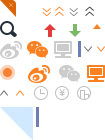
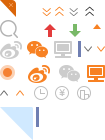
css

Changed region(s): [[0.0, 0.1429, 0.1714, 0.2857]]

diff --git a/css/basis.css b/css/basis.css
@@ -59,7 +59,7 @@ input{outline: none;}
 .time_ul li{ float:left; margin-top:10px; margin-right:10px;}
 .time_ul li input{ border:1px solid #cccccc; border-radius:4px; height:28px; width:100px; text-indent:5px; font-size:12px;}
 .table_seek{ width:300px; float:right; background-color:#fff; border-radius:15px; height:30px; border:1px solid #e6e6e6;}
-.brain_ico_seek{ background-position:0px -21px; width:17px; height:16px; display:block; float:right; margin-right:12px; margin-top:5px; cursor:pointer;}
+.brain_ico_seek{ background-position:0px -20px; width:17px; height:19px; display:block; float:right; margin-right:12px; margin-top:5px; cursor:pointer;}
 .table_seek input{ width:255px; height:28px; margin-left:10px; border:0; text-indent:5px;}
 .bj_fff{ background-color:#fff;}
 .block .table_style > thead > tr > th { text-align:center; font-weight: normal;border-bottom: 1px solid #f0f0f0 !important;;border-left:0px solid #f0f0f0; padding-top:16px; color:#666; padding-bottom:16px;}
@@ -137,21 +137,22 @@ input{outline: none;}
 .no_two_industry .industry_list{width:131px;}
 /*导航*/
 .nav_bj{ background-color:#2d3245; height:68px;    position: relative; }
-.logo{display:block; float:left; width:122px; height:36px; margin-top:16px;}
+.logo{display:block; float:left; width:122px; height:36px; margin-top:18px;}
 .nav_all_bj{width:329px; height:60px;background-image:url(../img/nav_d.jpg);  background-repeat:no-repeat;   position: absolute;}
 .nav_all{ height:68px; position:relative;  }
-.nav_all>ul{ margin-left:40px; float:left; overflow:hidden; margin-top: 2px;}
-.nav_all>ul li{ float:left; font-size:16px; color:#fff; margin-top: 14px; margin-left:60px;}
-.nav_all>ul .nav_on a{ color:#f78123}
-.nav_all ul a{color:#fff;}
+.nav_all>ul{ margin-left:36px; float:left; overflow:hidden; }
+.nav_all>ul li{ float:left;  font-size:16px; color:#fff;  margin-left:12px;}
+.nav_all>ul .nav_on a{ color:#fff; background-color:#2393f7; }
+.nav_all ul a{color:#fff; padding-left:24px; padding-right:24px; padding-top: 24px; display: block;  height:68px;}
 .nav_all ul a:hover{ text-decoration:none}
 .nav_nav ul li{ float:left; height:65px; text-align:center; width:75px; margin-left:60px;}
 .nav_nav{border-bottom:1px solid #d9d9d9; height:66px; background-color:#ffffff;}
 .nav_nav_name{ font-size:16px; color:#333333; margin-top:15px;}
 .nav_nav_name_x{ font-size:12px; color:#999;}
 .nav_two .nav_on{ border-bottom:4px solid #f78123;}
-.nav_all_input{ width:370px; height:32px; background-color:#a6aaae; border-radius:15px; float:left; margin-top:10px; margin-left:100px;}
-.nav_all_input input{ width:330px; margin-left:8px; text-indent:5px; float:left; height:30px; margin-top:1px; background-color:#a6aaae; border:0;border-radius:5px;}
+.nav_all_seek{float:left;     margin-left: 76px;}
+.nav_all_input{ width:275px; height:32px; background-color:#071026; display:none; border-radius:15px; float:left; margin-top:18px; margin-left:70px;}
+.nav_all_input input{ width:238px; margin-left:8px; text-indent:5px; float:left; height:30px;    color: #fff; font-size: 12px; background-color:#071026; border:0;border-radius:5px;}
 .nav_all_input .brain_ico_seek{    margin-top: 7px;}
 .nav_all_name{ float:right; color:#fff; font-size:12px; margin-top:18px;height: 36px; cursor:pointer;}
 .brain_ico_name{background-position:-28px -14px; width:16px; height:16px; display:inline-block;     margin-top: -3px;}

diff --git a/header.html b/header.html
@@ -5,13 +5,20 @@
 		<span class="logo"><img src="img/dn/logo.png"></span>
 		<ul>
 			<li page_tab="index"><a href="index.html" >首页</a></li>
-			<li page_tab="ctsj"><a href="list_page_com.html" >创投数据</a></li>
+			<li page_tab="ctsj"><a href="list_page_com.html" >创投数据库</a></li>
+			<li page_tab=""><a href="#" >投融快讯</a></li>
+			<li page_tab=""><a href="#" >行研报告</a></li>
+			<li page_tab=""><a href="#" >项目评测</a></li>
 			<!--<li page_tab="sydc">商业洞察</li>-->
 		</ul>
-		<!--        <div class="nav_all_input">
-                    <input type="text" class="" placeholder="搜企业项目/投融动态/投资机构"/>
-                    <span class="brain_ico brain_ico_seek"></span>
-                </div>-->
+		<div class="nav_all_seek">
+			<div class="seek_all"><span class="dn_ico dn_ico_seek"></span>寻求融资</div>
+			<div  class="dn_ico dn_ico_search"></div>
+		</div>
+		<div class="nav_all_input">
+            <input type="text" class="" placeholder="搜企业项目/投融动态/投资机构"/>
+            <span class="brain_ico brain_ico_seek"></span>
+        </div>
 		<div class="nav_all_name">
 			<span id="id_name"></span>
 			<span class="brain_ico brain_ico_name "></span>

diff --git a/css/dn.css b/css/dn.css
@@ -35,6 +35,9 @@ ul,ol,dl,dt,dd,p,img{ display:block; border:0;list-style:none; }
 .dn_info_list_ic span{padding-left:10px;}
 .dn_info_list_show_noimg{padding-right:20px;}
 .no_border{border:0;}
+.dn_ico_search{background-position: -106px 0px; width: 21px; height: 22px; display: inline-block; cursor:pointer; color:#fff; float:left; margin-top:26px; margin-left: 60px;}
+.seek_all{background-color:#ff943e; cursor:pointer; color:#fff;height:36px; padding-left:20px; padding-right:20px; float:left; line-height:36px; font-size:16px; margin-top:16px; border-radius:4px;}
+.dn_ico_seek{background-position: -86px 0px; width: 21px; height: 22px; display: inline-block; float:left;    margin-top: 7px;     margin-right: 10px; }
 .dn_ico_equity_trading{background-position: -25px -38px; width: 21px; height: 22px; display: inline-block; float:left; margin-left:20px;}
 .dn_ico_lable{background-position: 0px -38px; width: 21px; height: 20px; display: inline-block; float:left; margin-left:20px;}
 .dn_ico_report{background-position: -63px 0px; width: 21px; height: 20px; display: inline-block; float:left; margin-left:20px;}
